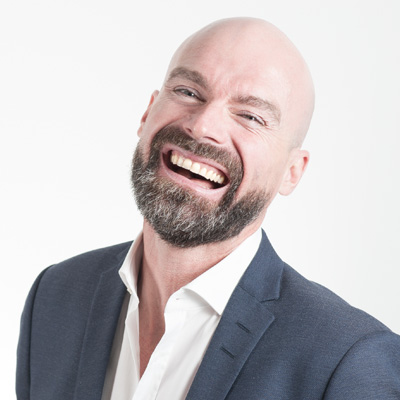
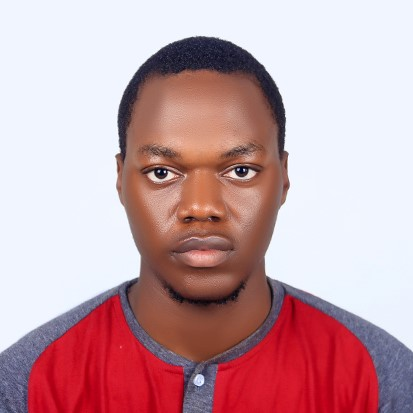
Photos

diff --git a/index.html b/index.html
@@ -606,7 +606,7 @@
           <div class="row">
             <div class="col-md-9">
               <div class="quote">
-                <b><img src="assets/img/quote_sign_left.png" alt="" /></b> Although skeptical at first choosing Ten24bit for our web and app development needs was one of the best decisions we made for our business. Their team's technical expertise combined with their creative approach resulted in a product that not only looks great but also functions flawlessly. We're incredibly impressed and grateful for their hard work.
+                <b><img src="assets/img/quote_sign_left.png" alt="" /></b> Although skeptical at first, choosing Ten24bit for our web development needs was one of the best decisions we made for our business. Their team's technical expertise combined with their creative approach resulted in a product that not only looks great but also functions flawlessly. We're incredibly impressed and grateful for their hard work.
                 <small
                   ><img src="assets/img/quote_sign_right.png" alt=""
                 /></small>
